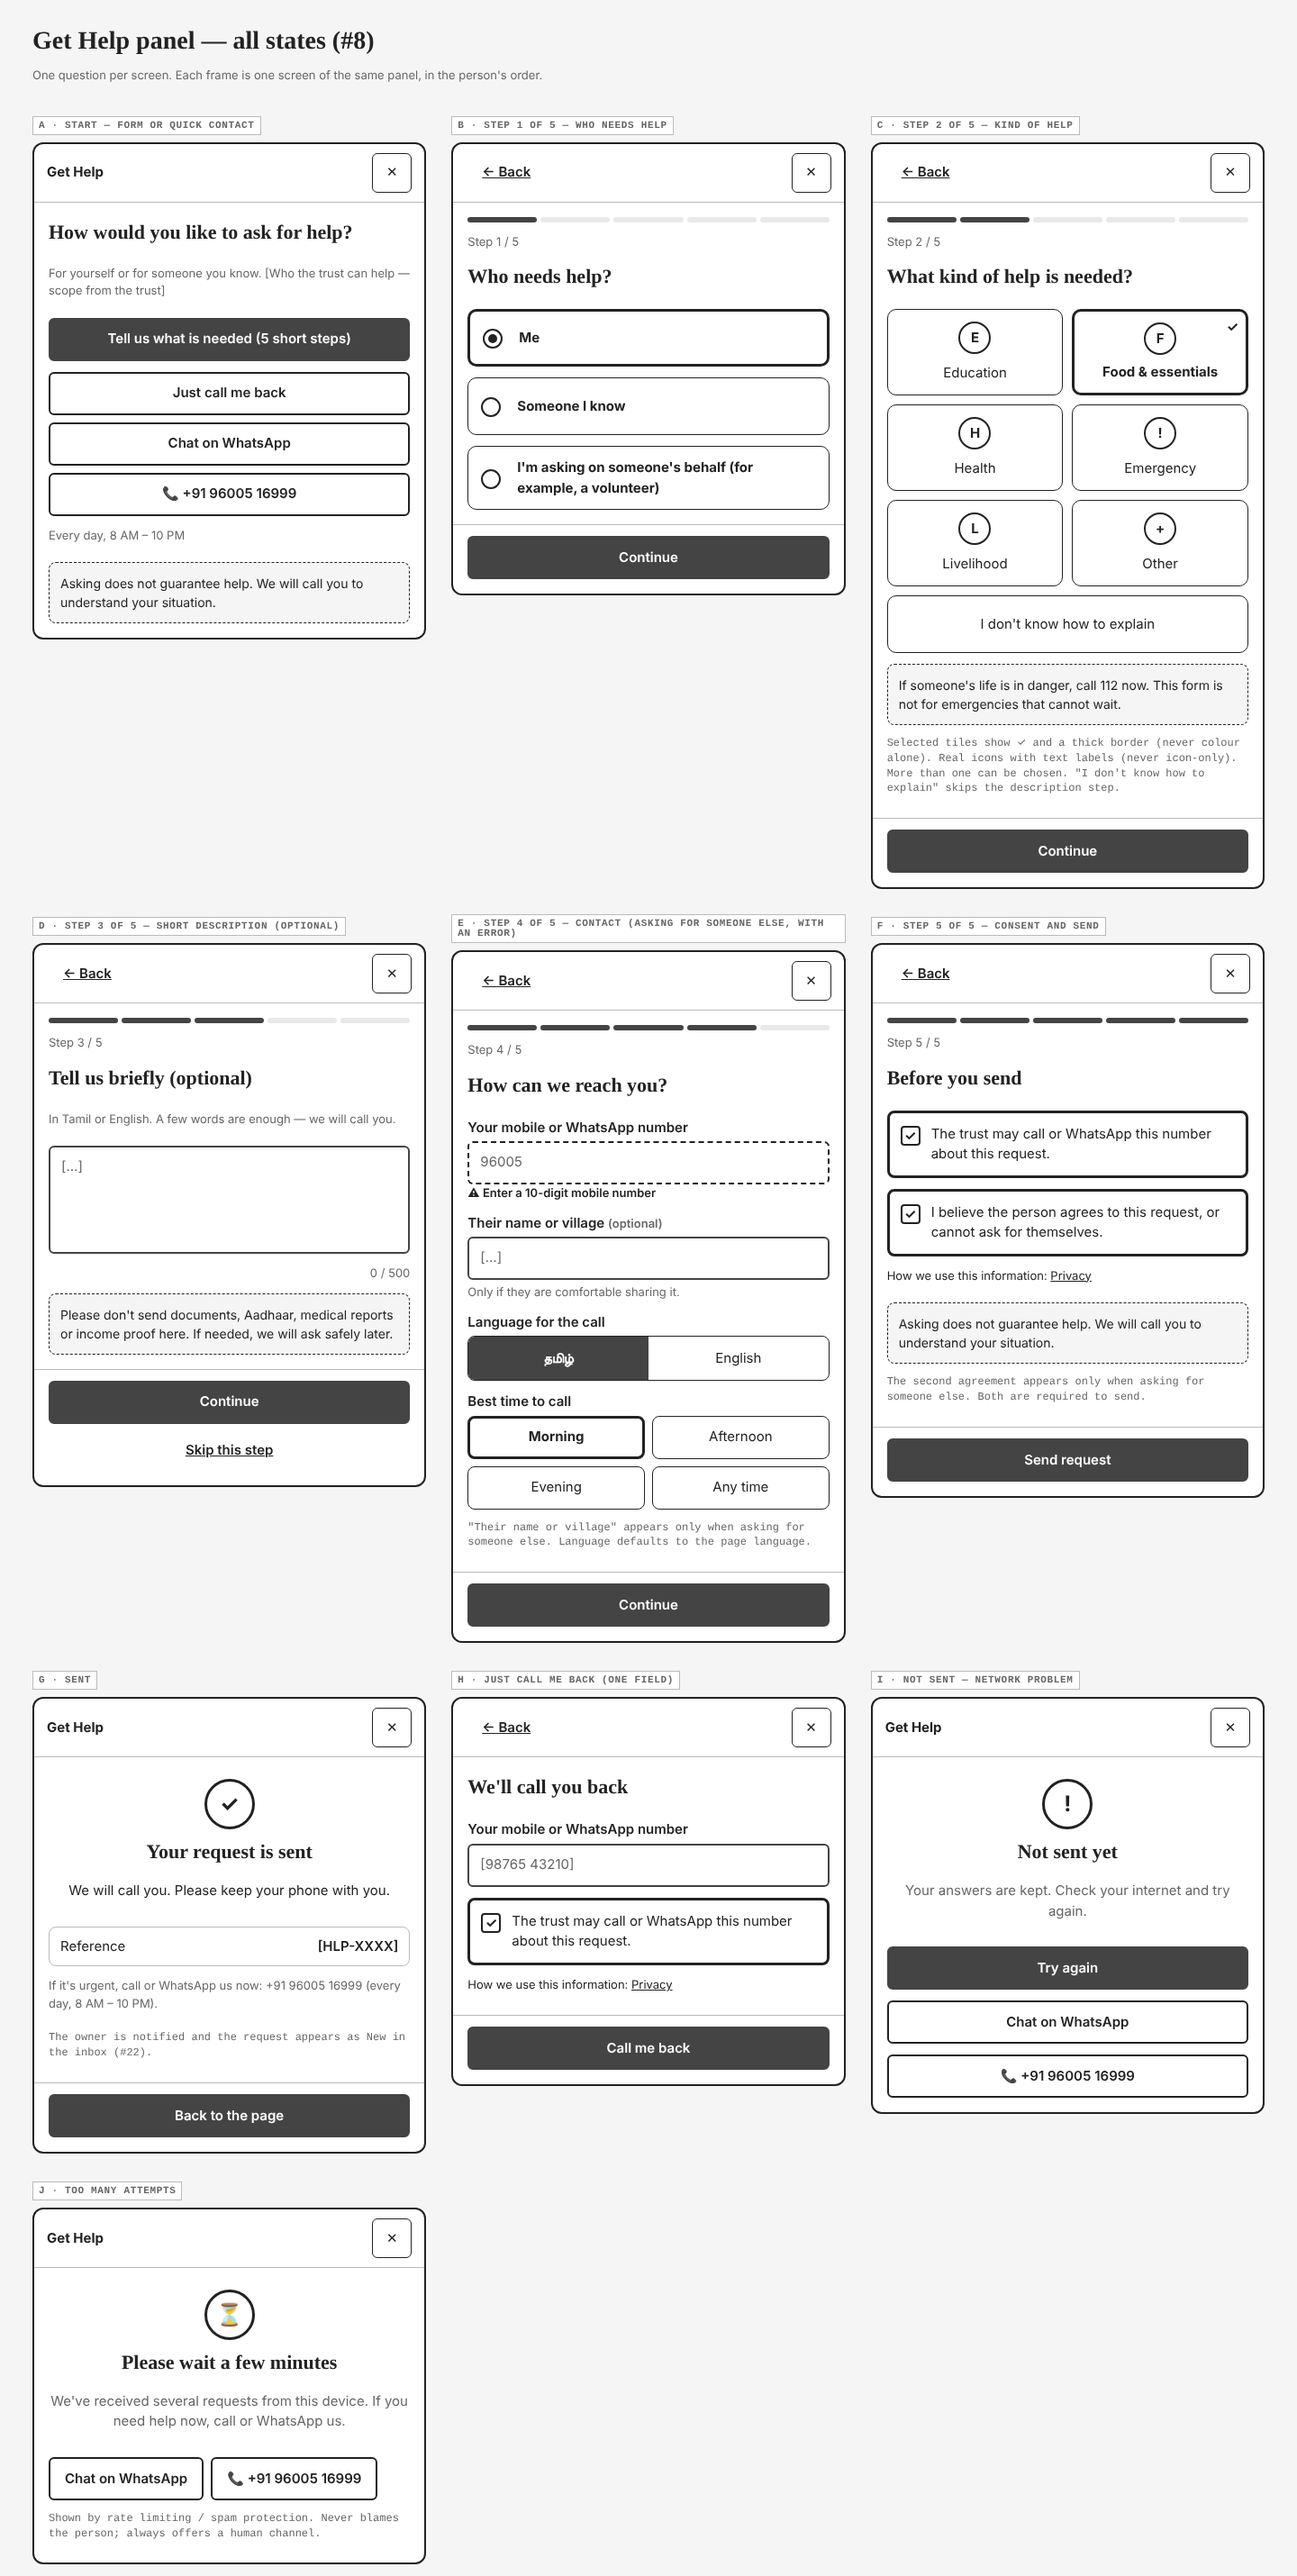
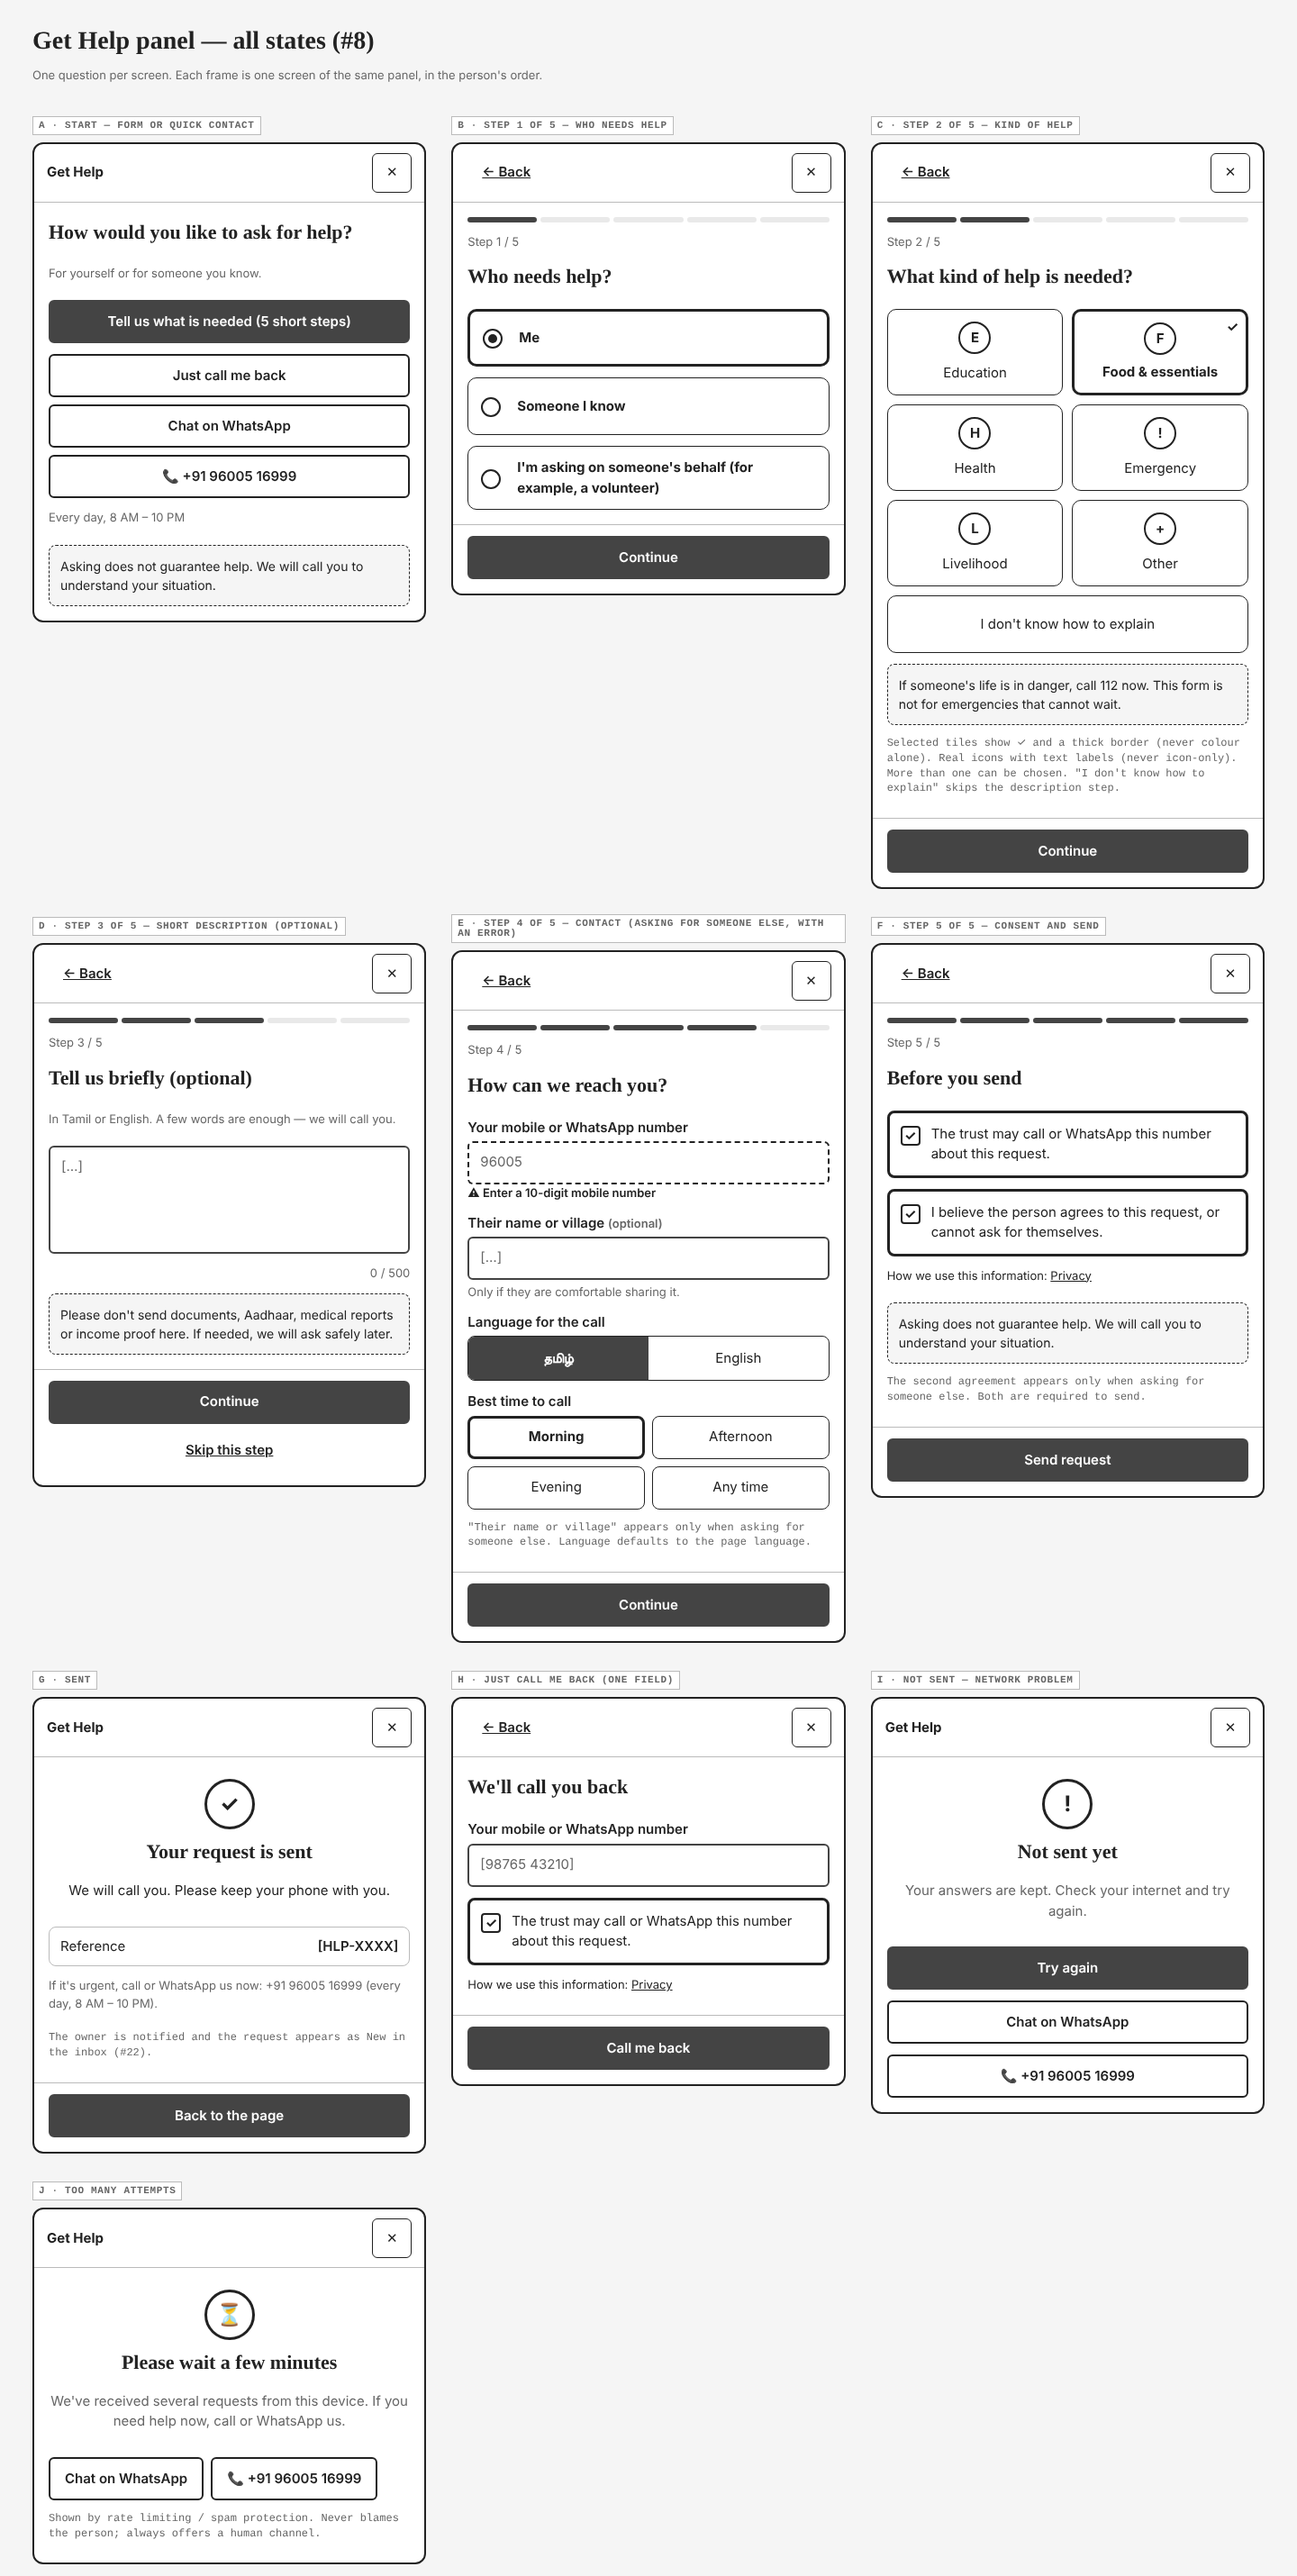
docs(#8): no area or eligibility limit — remove scope placeholder
Claude-Session: https://claude.ai/code/session_01Vo8PwQPvUcGqLK3AhdAFby

Changed region(s): [[0.0312, 0.0934, 0.3125, 0.249]]

diff --git a/docs/design/wireframes/help.html b/docs/design/wireframes/help.html
@@ -111,9 +111,7 @@
           </div>
           <div class="frame-body">
             <h2 data-i18n="startTitle">How would you like to ask for help?</h2>
-            <p class="small muted" data-i18n="startWho">
-              For yourself or for someone you know. [Who the trust can help — scope from the trust]
-            </p>
+            <p class="small muted" data-i18n="startWho">For yourself or for someone you know.</p>
             <span class="btn primary block" data-i18n="fillForm"
               >Tell us what is needed (5 short steps)</span
             >
@@ -456,8 +454,7 @@
       const ta = {
         getHelp: 'உதவி பெற',
         startTitle: 'எப்படி உதவி கேட்க விரும்புகிறீர்கள்?',
-        startWho:
-          'உங்களுக்காகவோ உங்களுக்குத் தெரிந்தவருக்காகவோ. [அறக்கட்டளை உதவக்கூடியவர்கள் — அறக்கட்டளை வழங்கும்]',
+        startWho: 'உங்களுக்காகவோ உங்களுக்குத் தெரிந்தவருக்காகவோ.',
         fillForm: 'என்ன தேவை என்று சொல்லுங்கள் (5 சிறிய படிகள்)',
         callMeBack: 'என்னைத் திரும்ப அழையுங்கள்',
         whatsapp: 'WhatsApp-ல் பேசுங்கள்',
